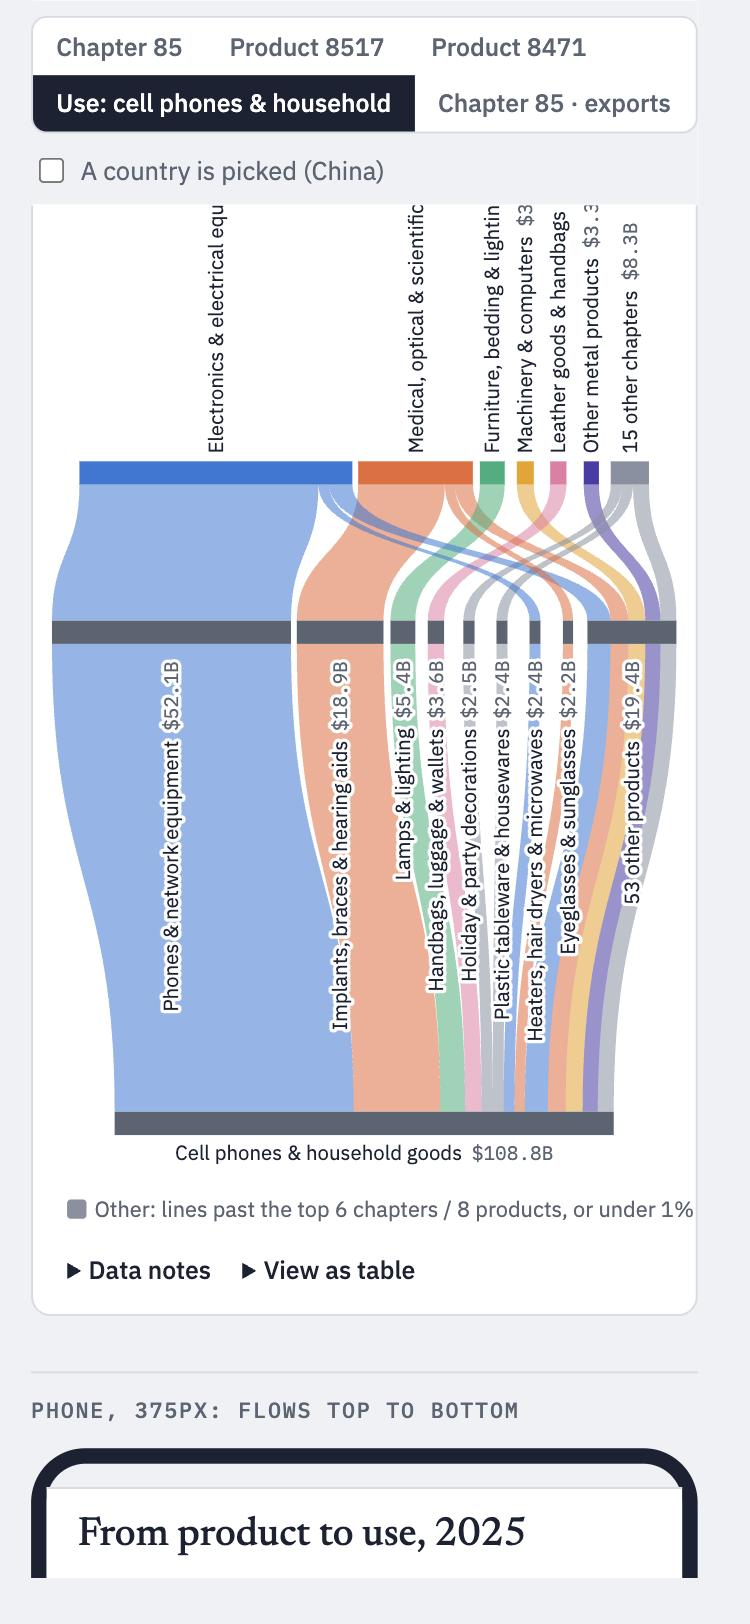
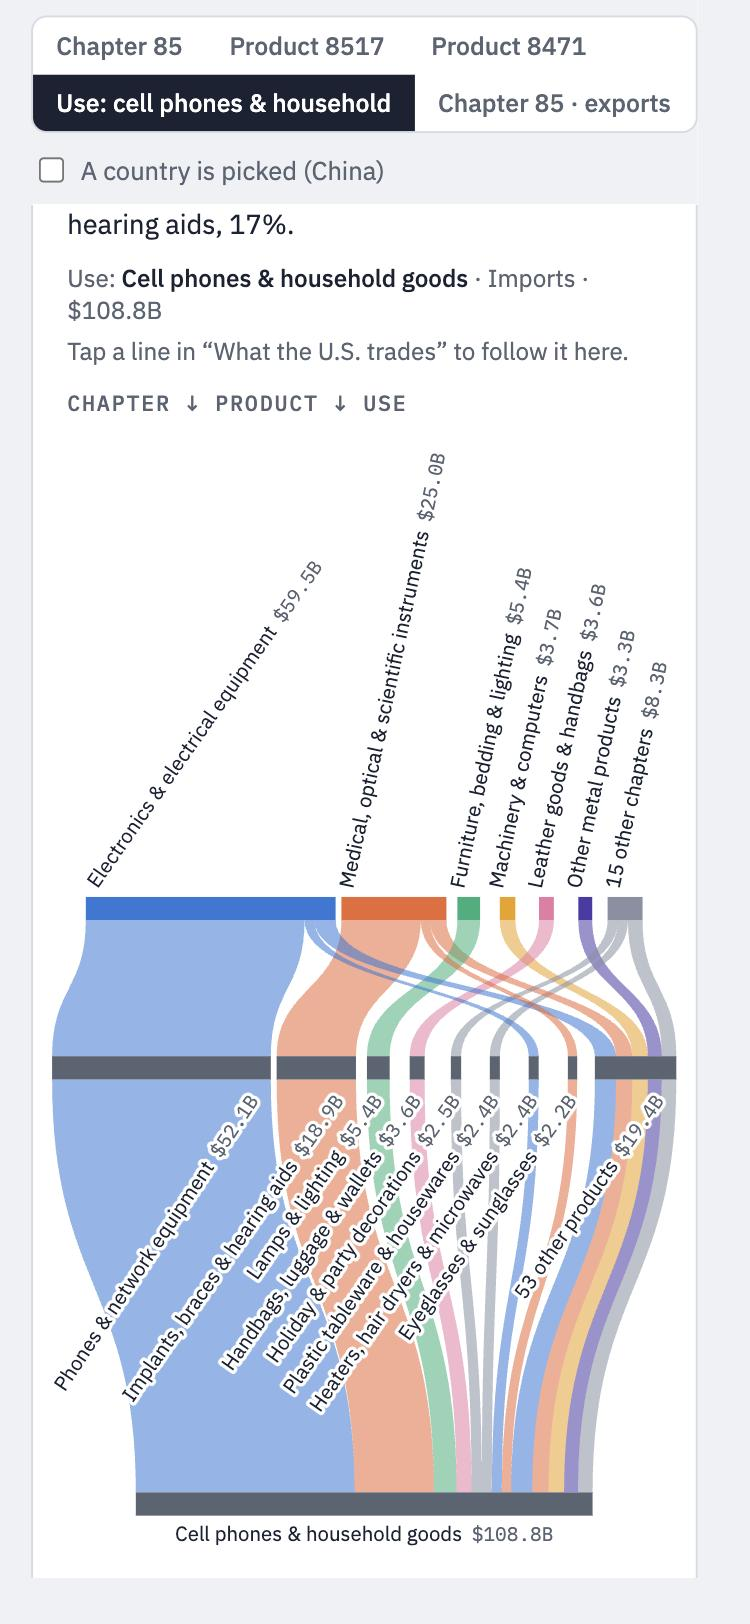
Trade Sankey mock: slanted phone labels; owner's decisions recorded

diff --git a/docs/mockups/trade-sankey-mock.html b/docs/mockups/trade-sankey-mock.html
@@ -85,18 +85,19 @@ h2.row{font:500 .7rem "IBM Plex Mono",monospace;letter-spacing:.08em;text-transf
 <h2 class="row">Phone, 375px: flows top to bottom</h2>
 <div class="phone-wrap">
   <div class="phone"><div class="card" id="phone-card"></div></div>
-  <div class="phone-note">On a phone the three columns become three rows. Every node keeps its name and value: names that fit across a node sit level, the rest turn upright beside it (rule 10: labels never vanish), so the chart is taller than wide. A tap on a band pins its tooltip; a tap elsewhere, Esc or a scroll closes it. The same state follows the picker at the top.</div>
+  <div class="phone-note">On a phone the three columns become three rows. Every node keeps its name and value: names that fit across a node sit level, the rest slant up and to the right at about 55° (rule 10: labels never vanish), steepening only where a label would otherwise run off the edge. The middle row’s labels sit on whichever side of it slants more. A tap on a band pins its tooltip; a tap elsewhere, Esc or a scroll closes it. The same state follows the picker at the top.</div>
 </div>
 
 <div class="note">
-<b>Open questions for the owner</b>
+<b>Decided (owner, 2026-10-20)</b>
 <ol>
-<li><b>Per-country.</b> With a country picked, the card is removed (tick the box above). The brief assumed a per-country split would be an estimate. It would not: Census publishes HS10 by partner, and every HS10 line has exactly one end use, so a per-country Sankey is exact. Cost: no all-partner query at HS10 (the wildcard fails), so one call per partner per year per flow, about 7,400 calls (a few hours for the first fetch; China, the largest, is 0.7 MB and 6 s per year-flow; raw cache under 1 GB, not committed); the output would be small (2,100 chapter-product-use triples per year-flow nationally, far fewer per partner). Build all-countries first and add countries later (the card would then come back for a country), or never?</li>
-<li><b>Colours.</b> The card above uses neutral grey bars. Here bands take the colour of the end they are “many” of: the use they reach (chapter and product picks) or the chapter they start from (use picks), six solid colours plus a neutral “Other”. Keep, or one accent colour for the whole selection?</li>
-<li><b>Exports vs imports.</b> The mock shows imports (bigger and more split). The card follows the Exports / Imports toggle above. Note export “Civilian aircraft, engines &amp; parts” is one heading (8800) in one chapter, so that use reversed is a single band; the exports chapter-85 state is in the picker for comparison.</li>
-<li><b>Grey on chapter and product picks.</b> A use picked now shows only that use: each product is sized to what it sends there, with no “other uses” band. Chapter and product picks still show grey inflows into each use from outside the selection (Phones &amp; network equipment is 79% of telecom equipment; the other 21% is grey), which is how the many-to-one shows there. Keep that, or drop grey everywhere for the same reason?</li><li><b>Grey inflows only above 1%.</b> A use that takes under 1% of the selection (8517 sends $17M to “Other vehicle parts”) is still drawn and labelled, but without its grey inflow, which would otherwise be $138B of unrelated auto parts. OK?</li>
-<li><b>Data size and refresh.</b> All countries: 2 calls per year (450 KB + 1.1 MB, 5–17 s), 34 calls for 2010–2026, plus one concordance file per year and flow (2010–2019 are old .xls, 2020 on .xlsx). Output roughly 50 KB per year-flow, about 1.7 MB for 2010–2026 (≈ 400 KB gzipped), one file per year so the page loads one year at a time. Weekly refresh: the year in progress plus the prior year, 4 calls.</li>
+<li>A use pick shows only that use; products are sized by what they send to it.</li>
+<li>Chapter and product picks keep the grey inflows from outside the selection: they show what else feeds each use.</li>
+<li>A use under 1% of the selection is drawn and labelled without a grey inflow.</li>
+<li>With a country picked the card is removed. Per-country data (exact, about 7,400 API calls) is a later, separate session.</li>
+<li>Phone labels slant rather than standing upright.</li>
 </ol>
+<b>Still open:</b> colours (bands coloured by the use they reach, or by chapter on a use pick, against the card above’s plain grey bars).
 </div>
 </main>
 <div class="tip" id="tip" role="tooltip"></div>
@@ -202,14 +203,38 @@ function draw(container,width){
     const tot=Math.max(...cols.map(c=>c.reduce((a,n)=>a+n.h,0)));
     const maxN=Math.max(...cols.map(c=>c.length));
     let k=(inner-GAP*(maxN-1))/tot;
-    for(let it=0;it<6;it++){const need=Math.max(...cols.map(c=>c.reduce((a,n)=>a+Math.max(n.h*k,14),0)+GAP*(c.length-1)));if(need<=inner)break;k*=inner/need*0.995;}
-    cols.forEach(cn=>{let x=0;cn.forEach(n=>{n.len=Math.max(n.h*k,1.5);const slot=Math.max(n.len,14);n.x=pad+x+(slot-n.len)/2;n.slot=[pad+x,slot];x+=slot+GAP});const off=(inner-(x-GAP))/2;cn.forEach(n=>{n.x+=off;n.slot[0]+=off})});
+    for(let it=0;it<6;it++){const need=Math.max(...cols.map(c=>c.reduce((a,n)=>a+Math.max(n.h*k,17),0)+GAP*(c.length-1)));if(need<=inner)break;k*=inner/need*0.995;}
+    cols.forEach(cn=>{let x=0;cn.forEach(n=>{n.len=Math.max(n.h*k,1.5);const slot=Math.max(n.len,17);n.x=pad+x+(slot-n.len)/2;n.slot=[pad+x,slot];x+=slot+GAP});const off=(inner-(x-GAP))/2;cn.forEach(n=>{n.x+=off;n.slot[0]+=off})});
     // label orientation per node
     const txt=n=>lab1(n)+'  '+val1(n);
     cols.flat().forEach(n=>{const w=measure(txt(n),fs)+6;n.flat=w<=n.slot[1]+ (n.col===0&&cols[0].length===1?999:0);n.lw=w});
-    const area=c=>Math.max(16,...cols[c].map(n=>n.flat?16:n.lw));
-    const A0=area(0), G1=Math.max(70,cols[1].every(n=>n.flat)?70:70), A1=area(1), A2=area(2);
-    const y0=A0+4, y1=y0+NW+G1, y2=y1+NW+A1+40;
+    // Slanted labels read up and to the right (rule 10). A label above its row rises from the node's left corner
+    // to the right; a label below its row ends at the node's right corner, reaching down and to the left. Each
+    // starts at 55 degrees and steepens only if it would leave the chart; walking in from that edge, a neighbour
+    // takes the same angle if at its own it would run into the steeper label (two lines from anchors on one row
+    // close in by depth x (cot a_far - cot a_near); the gap left at the shorter one's end must stay 14px or more). Row 0 sits above, row 2 below; row 1 takes whichever side
+    // slants more.
+    const SLANT=55*Math.PI/180;
+    const slant=(cn,up)=>{
+      const seq=cn.filter(n=>!n.flat).map(n=>({n,ax:up?n.slot[0]+Math.min(6,n.slot[1]/2):n.slot[0]+n.slot[1]-Math.min(6,n.slot[1]/2)}));
+      if(up) seq.reverse();
+      let prev=null;const out=[];
+      seq.forEach(o=>{const room=(up?W-o.ax:o.ax)-8;let a=SLANT;
+        if(o.n.lw>room)a=Math.max(a,Math.acos(Math.max(0,room/o.n.lw)));
+        if(prev&&a<prev.a){const dx=Math.abs(o.ax-prev.ax),depth=Math.min(o.n.lw*Math.sin(a),prev.n.lw*Math.sin(prev.a));
+          const gap=(dx-depth*(1/Math.tan(a)-1/Math.tan(prev.a)))*Math.sin(a);
+          if(gap<14)a=prev.a;}
+        o.a=a;out.push(o);prev=o;});
+      return out;
+    };
+    const apply=(r,up)=>r.forEach(o=>{o.n.angle=o.a;o.n.ax=o.ax;o.n.up=up});
+    apply(slant(cols[0],true),true); apply(slant(cols[2],false),false);
+    const r1u=slant(cols[1],true), r1d=slant(cols[1],false), sum=r=>r.reduce((q,o)=>q+o.a,0);
+    const up1=sum(r1u)<sum(r1d); apply(up1?r1u:r1d,up1); cols[1].forEach(n=>{if(n.flat)n.up=up1});
+    cols[0].forEach(n=>n.up=true);cols[2].forEach(n=>n.up=false);
+    const area=c=>Math.max(16,...cols[c].map(n=>n.flat?16:n.lw*Math.sin(n.angle)+8));
+    const A0=area(0), A1=area(1), A2=area(2);
+    const y0=A0+4, y1=y0+NW+(up1?A1+30:70), y2=y1+NW+(up1?70:A1+40);
     cols[0].forEach(n=>n.y=y0);cols[1].forEach(n=>n.y=y1);cols[2].forEach(n=>n.y=y2);
     H=y2+NW+A2+4;
   }
@@ -260,11 +285,11 @@ function draw(container,width){
       else lb+=`<text class="${cls}${halo}" x="${x}" y="${cy+4}" text-anchor="${anchor}">${esc(lab1(n))}<tspan class="num" dx="6">${val1(n)}</tspan></text>`;
     } else {
       const cx=n.slot[0]+n.slot[1]/2;
-      const above=n.col===0, halo=n.col===1?' halo':'';
+      const above=n.up, halo=n.col===1?' halo':'';
       if(n.flat){const y=above?n.y-5:n.y+NW+13;lb+=`<text class="${cls} v${halo}" x="${cx}" y="${y}" text-anchor="middle">${esc(lab1(n))}<tspan class="num" dx="5">${val1(n)}</tspan></text>`;}
-      else {const y=above?n.y-4:n.y+NW+4; const rot=-90;
-        const ty=above?y:y+n.lw;
-        lb+=`<text class="${cls} v${halo}" transform="translate(${cx+3.6},${ty}) rotate(-90)" text-anchor="start">${esc(lab1(n))}<tspan class="num" dx="5">${val1(n)}</tspan></text>`;}
+      else {const y=above?n.y-4:n.y+NW+11;
+        const deg=-n.angle*180/Math.PI;
+        lb+=`<text class="${cls} v${halo}" transform="translate(${n.ax},${y}) rotate(${deg.toFixed(1)})" text-anchor="${above?'start':'end'}">${esc(lab1(n))}<tspan class="num" dx="5">${val1(n)}</tspan></text>`;}
     }
   });
   container.innerHTML=`<svg class="sk" viewBox="${horiz?0:0} ${horiz?-2:0} ${W} ${H+4}" width="${W}" height="${H+4}" role="img" aria-label="Sankey of ${esc(S.nodes.find(n=>n.code===S.sel)?.label||'')}">${rib}${nd}${lb}</svg>`;

diff --git a/docs/TRADE_SANKEY_FEASIBILITY.md b/docs/TRADE_SANKEY_FEASIBILITY.md
@@ -86,8 +86,12 @@ Examples (imports unless stated):
 - Per country, if wanted later: ~7,400 calls (a few hours first time, under 1 GB of cache), output far smaller per
   partner than nationally. It would be exact, not an estimate.
 
-## Mockup decisions after the owner's first look (2026-10-20)
+## Mockup decisions (owner, 2026-10-20)
 
 - A **use** pick shows only that use: products are sized by what they send to it, with no "other uses" band.
-- With a **country** picked, the card is removed (it already only appears once a line is tapped).
-- Still open: grey "from outside the selection" inflows on chapter and product picks; colours; per-country later or never.
+- **Chapter and product** picks keep grey inflows into each use from outside the selection (what else feeds it).
+- A use under 1% of the selection is drawn and labelled with no grey inflow.
+- With a **country** picked, the card is removed (it already only appears once a line is tapped). Per-country data
+  is exact and is a separate, later session.
+- Phone labels slant up and to the right (about 55 degrees), steepening only where one would leave the chart.
+- Still open: colours.
